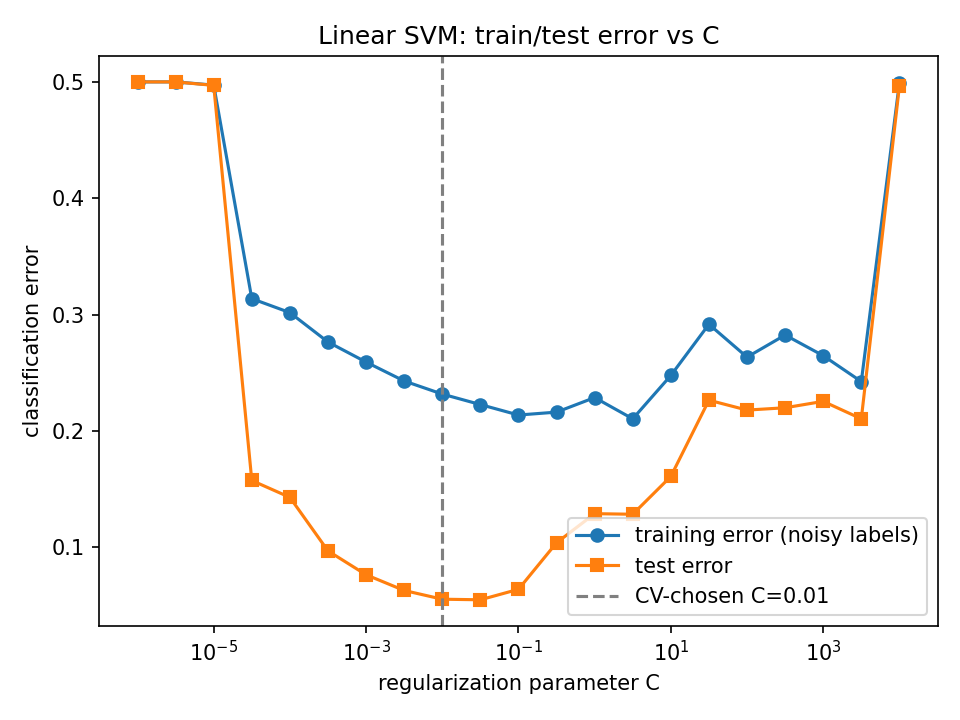
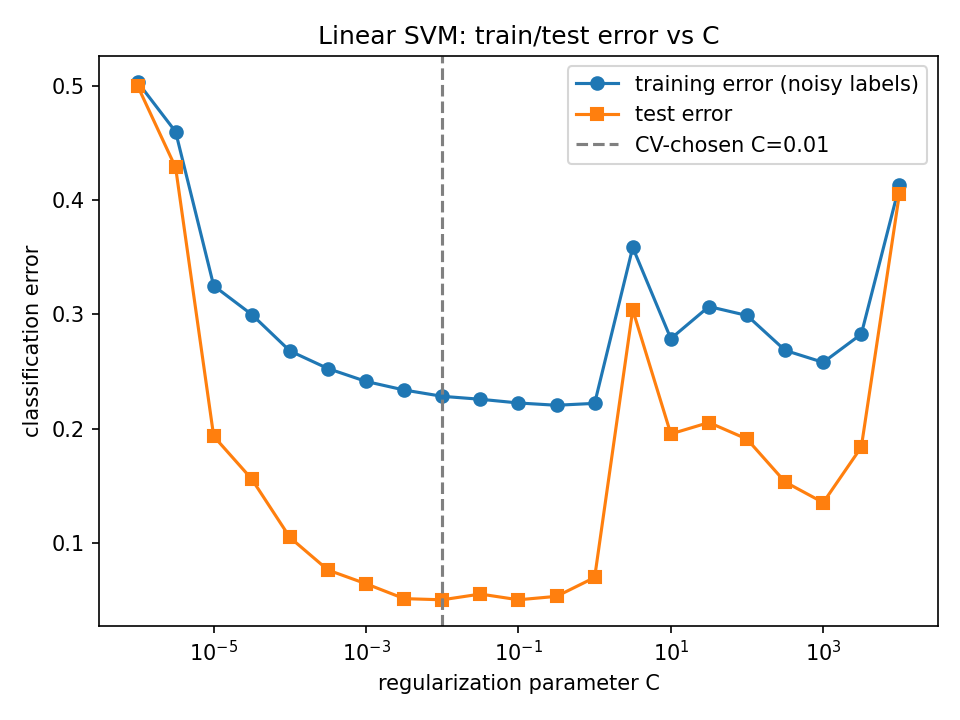
final push for changes, change the linear svm to full 12k training

diff --git a/assignment2/comp1.py b/assignment2/comp1.py
@@ -61,8 +61,11 @@ print("test  class counts:", np.bincount(yte))
 print(f"flipped {n_flipped} / {len(ytr)} training labels (p={P_FLIP})")
 print("pixel range:", Xtr.min(), "to", Xtr.max())
 
+#keep the full (noisy) training set so the linear-SVM plot can use all 12000,
+#which the assignment requires for that plot specifically
+Xtr_full, ytr_full = Xtr, ytr
 
-PER_CLASS = 2000 #The entire 12000 was super slow so this is configurable for now, 3000 still too slow, 1000 was allowed so I'm doing it
+PER_CLASS = 2000
 if PER_CLASS is not None:
     idx = np.concatenate([rng.permutation(np.where(ytr == c)[0])[:PER_CLASS] for c in (0, 1)])
     idx = rng.permutation(idx)
@@ -103,10 +106,12 @@ def k_fold_cross_valid(model_select, k, X, y, random_seed=SEED):
 #make the linear svm
 
 K = 5
-N_TRAIN = len(Xtr)   # 12000 used for the alpha = 1/(N*C) conversion 
+N_TRAIN = len(Xtr)        # 4000 after reduction (2000/class)
+N_FULL  = len(Xtr_full)   # 12000 full training set
 
-def make_linear_svm(C):
-    alpha = 1.0 / (N_TRAIN * C)
+def make_linear_svm(C, n=N_TRAIN):
+    # alpha = 1/(nC); n = size of the set this SVM trains on, so C keeps the same meaning
+    alpha = 1.0 / (n * C)
     return SGDClassifier(loss="hinge", alpha=alpha, max_iter=2000, tol=1e-4, random_state=SEED)
 
 #tune C with my k-fold CV, using logspace because its much better linear grid
@@ -121,11 +126,11 @@ print(f"----- recorded optimal linear-SVM C = {best_C:.4f}")
 
 #train/test error over a wider grid, using train and test sets
 C_grid_plot = np.logspace(-6, 4, 21)
-tr_err_lin, te_err_lin = [], [] #renamed
+tr_err_lin, te_err_lin = [], []
 for C in C_grid_plot:
-  m = make_linear_svm(C); m.fit(Xtr, ytr)
-  tr_err_lin.append((m.predict(Xtr) != ytr).mean())
-  te_err_lin.append((m.predict(Xte) != yte).mean())
+    m = make_linear_svm(C, n=N_FULL); m.fit(Xtr_full, ytr_full)
+    tr_err_lin.append((m.predict(Xtr_full) != ytr_full).mean())
+    te_err_lin.append((m.predict(Xte) != yte).mean())
   
 
 #gaussian kernel
